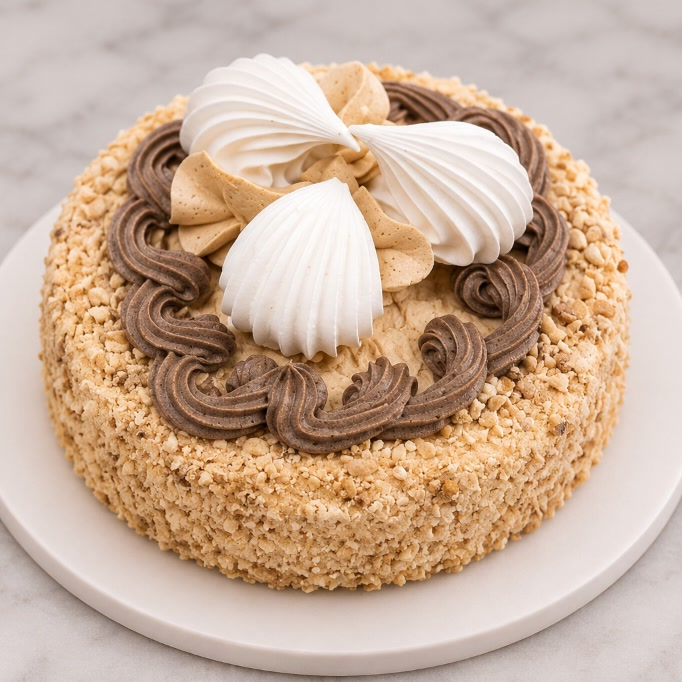
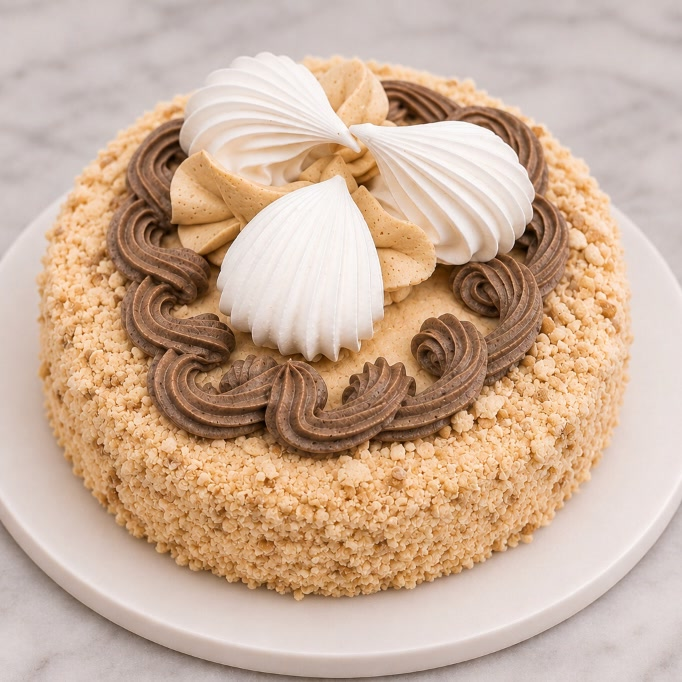
Замена фото у «Полёт-безе без ореха с варёной сгущёнкой»
sw -> v26.

Generated with [Devin](https://devin.ai)

diff --git a/sw.js b/sw.js
@@ -1,5 +1,5 @@
 /* Service Worker — Кондитерская фабрика «Восток» (PWA) */
-const VERSION = "vostok-v25";
+const VERSION = "vostok-v26";
 const STATIC_CACHE = `${VERSION}-static`;
 const RUNTIME_CACHE = `${VERSION}-runtime`;
 
